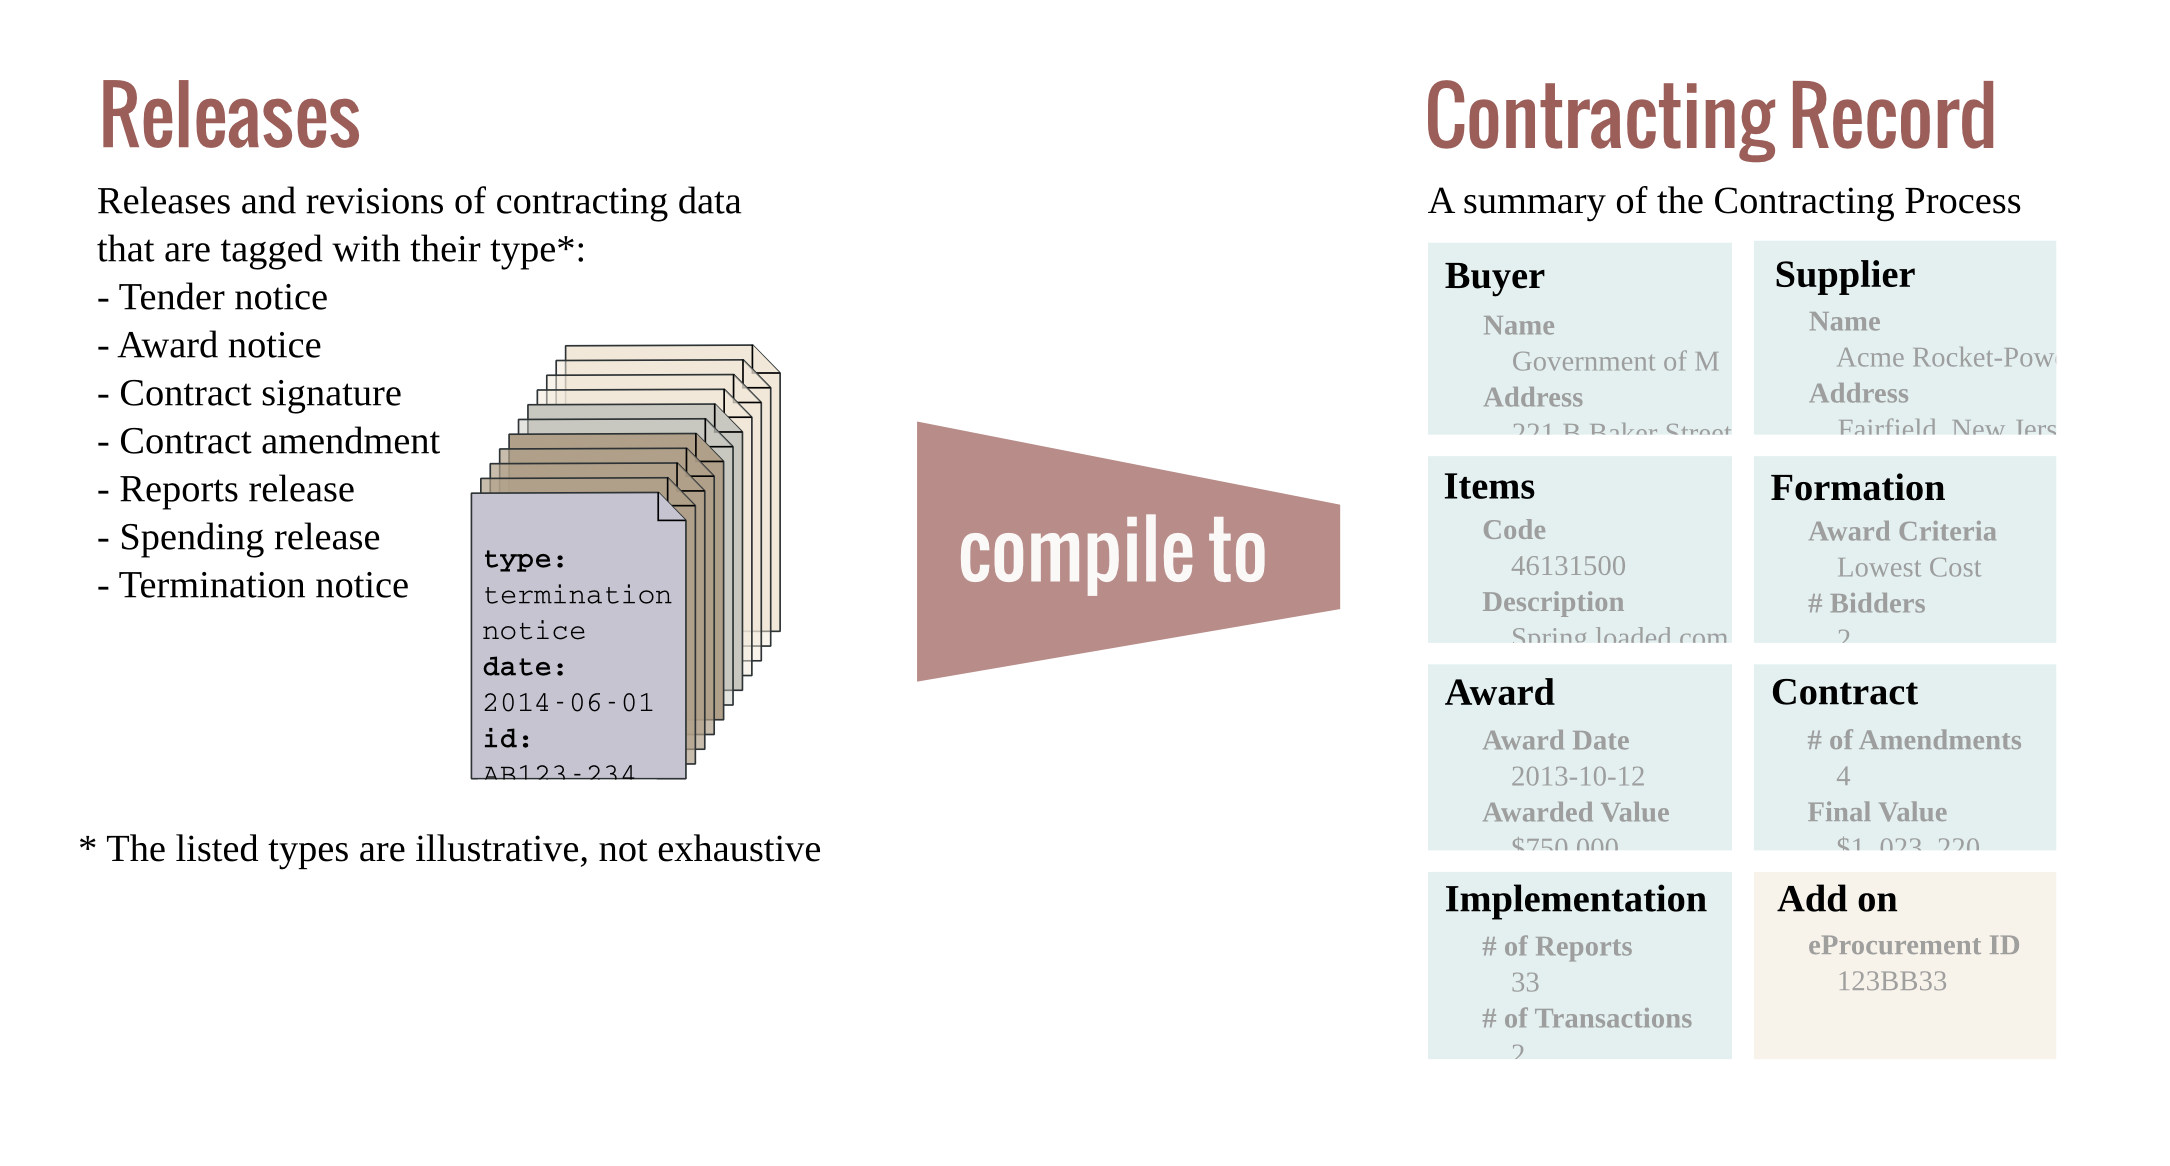
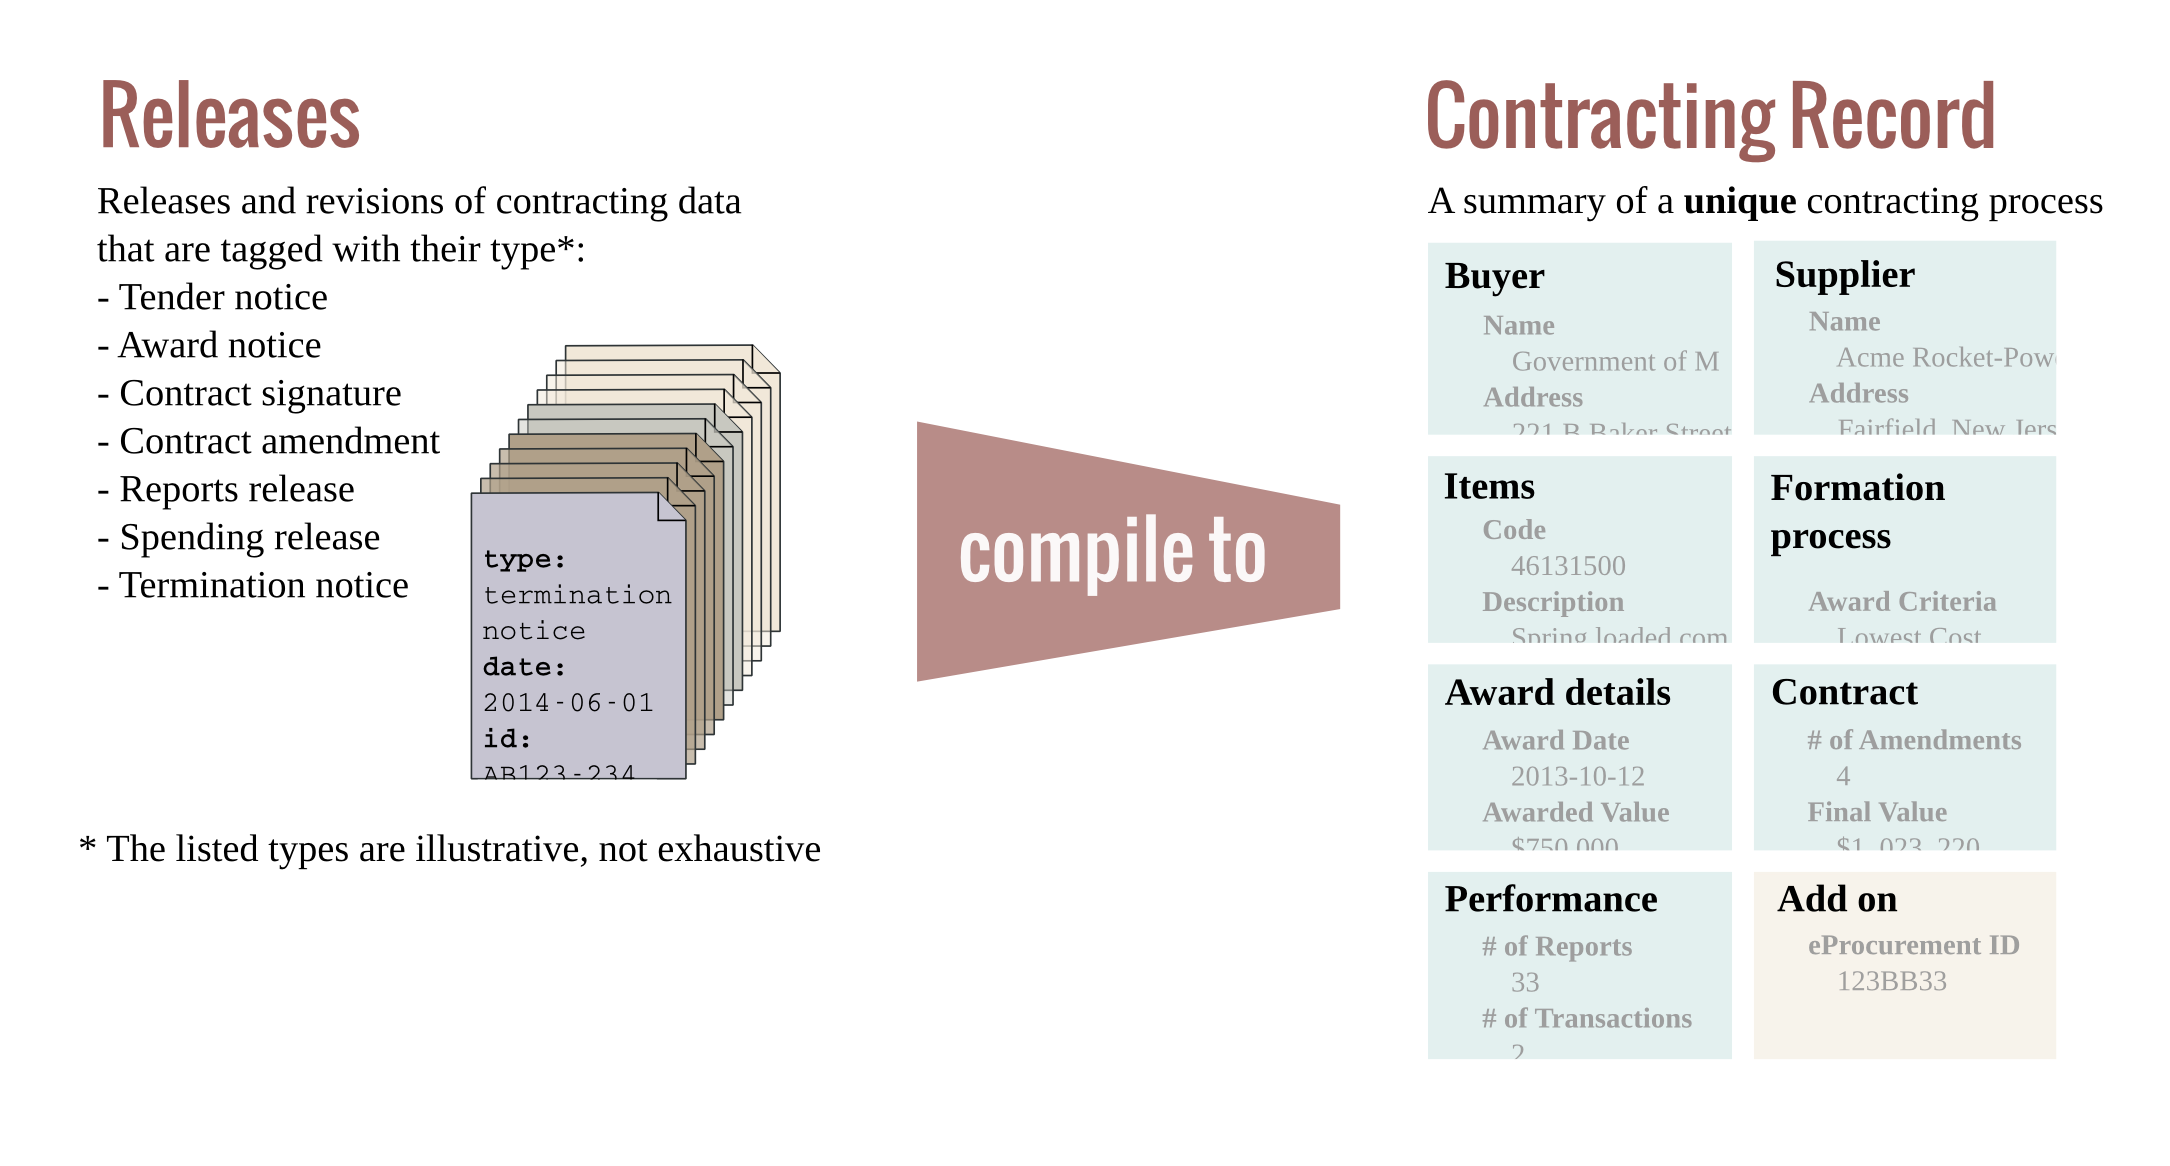
Update releases and record and add note on planning data

diff --git a/standard/standard.md b/standard/standard.md
@@ -61,15 +61,22 @@ The contracting process is the sequence of events related to the lifespan of a c
 
 For descriptions of the phases see the "Definitions" tab at the top.
 
+In this version of the standard, you will not see planning included. 
+Please see "[A note on planning](#a-note-on-planning)" for a full explanation.
+This is because the standard, at this point, has been drafted primarily 
+on the basis of a deep search into the existing data, where we did not find planning data.
+The standard will evolve on the basis of use cases and demand for contracting data also,
+so we welcome detailed use cases regarding planning data to help us build out this area of the standard.
+
 ### Conceptual Model
 We propose an Open Contracting Data Standard consisting of two parts:
 
-- A **contracting record** - a core summary record used to describe key
-  features of the complete Contracting Process. It is updated as 
-  new information becomes available to accurately reflect the state of tender, 
-  award or contract processes. The contracting record should provide an 
-  at-a-glance view of key information used in locating and analysing current, 
-  past or future contracting activities.
+- A **contracting record** - is used to summarize all the key
+  features of the a unique contracting process, bringing together information from 
+  all phases of the contracting process into one record. It is updated as 
+  new information becomes available to accurately reflect the current state of the 
+  contract processes. The contracting record should provide an 
+  at-a-glance view of key information and can then be used to access more detailed information from the releases.
 
 - A set of **contracting releases** - specific releases of information, 
   such as tender notices, award notices, or details of a contract. 
@@ -128,9 +135,9 @@ The Contracting Record above shows the core components of our data model.
         links to the award & contract documents, and termination information. 
         It would also capture details of contract amendments (change of value, deliverables
         alterations, no-cost extensions)
--   Implementation
-    -   In implementation we store details related to the contract performance
-        including details of payments made, evaluation and performance reports.
+-   Performance
+    -   In performance we store details related to the contract implementation
+        including details of payments made, evaluation, audit and performance reports.
 
 <div class="panel panel-success">
     <div class="panel-heading">
@@ -146,6 +153,27 @@ The Contracting Record above shows the core components of our data model.
          </ul>     
      </div>
 </div>
+
+### Defining a unique contracting process
+For the data standard, defining a unique contracting process is critical for getting useful, comparable, clean data. But, there are cases 
+where what the unique process is not obvious. For example, a framework contract has only one tender and award but many contracts associated with that award.
+
+We define a unique contracting process as that with a unique tendering / competitive phase.
+
+**Example 1**
+
+<div class="pull-left"><img alt="Multiple processes" src="https://raw.githubusercontent.com/open-contracting/standard/master/standard/assets/tender_notice_with_multiple_journeys.png"></div>
+
+This Tender notice has a single ID and six line items. However, to secure each item suppliers must enter a seperate bid and the competition is handled seperately for each item leading to 6 contracts. Because the competitive process is unique for each 6 items there are 6 contracting processes here, in spite of the single Tender Notice ID.
+
+<div class="clearfix"></div>
+
+**Example 2**
+<div class="pull-left"><img alt="Single process" src="https://raw.githubusercontent.com/open-contracting/standard/master/standard/assets/one_journey_multiple_contracts.png"></div>
+
+This snippet from a [tender notice](https://buyandsell.gc.ca/procurement-data/tender-notice/PW-14-00635129) offers an unspecified number of contracts for the successful supplier(s). The details note that there is a limit of $25k per contract, anything higher than that must be rebid competitively. All of the $25k or less contracts that are awarded under the award that will result from this tender are part of a single contracting process, because of the single bidding process.
+
+<div class="clearfix"></div>
 
 ### Add on information
 In addition to the core components, there will be cases where
@@ -181,26 +209,12 @@ provide a way to link to these documents. We are considering how to handle docum
 the available documents. As we flesh out the different serializations over July and August this will be defined. Document links will always 
 be available through the release that declared them.
 
-### Defining a unique contracting process
-For the data standard, defining a unique contracting process is critical for getting useful, comparable, clean data. But, there are cases 
-where what the unique process is not obvious. For example, a framework contract has only one tender and award but many contracts associated with that award.
-
-We define a unique contracting process as that with a unique tendering / competitive phase.
-
-**Example 1**
-
-<div class="pull-left"><img alt="Multiple processes" src="https://raw.githubusercontent.com/open-contracting/standard/master/standard/assets/tender_notice_with_multiple_journeys.png"></div>
-
-This Tender notice has a single ID and six line items. However, to secure each item suppliers must enter a seperate bid and the competition is handled seperately for each item leading to 6 contracts. Because the competitive process is unique for each 6 items there are 6 contracting processes here, in spite of the single Tender Notice ID.
-
-<div class="clearfix"></div>
-
-**Example 2**
-<div class="pull-left"><img alt="Single process" src="https://raw.githubusercontent.com/open-contracting/standard/master/standard/assets/one_journey_multiple_contracts.png"></div>
-
-This snippet from a [tender notice](https://buyandsell.gc.ca/procurement-data/tender-notice/PW-14-00635129) offers an unspecified number of contracts for the successful supplier(s). The details note that there is a limit of $25k per contract, anything higher than that must be rebid competitively. All of the $25k or less contracts that are awarded under the award that will result from this tender are part of a single contracting process, because of the single bidding process.
-
-<div class="clearfix"></div>
+### A note on planning
+In this version of the standard, you will not see planning included. 
+This is because the standard, at this point, has been drafted primarily 
+on the basis of a deep search into the existing data, where we did not find planning data.
+The standard will evolve on the basis of use cases and demand for contracting data also,
+so we welcome detailed use cases regarding planning data to help us build out this area of the standard.
 
 ##The contracting record 
 The contracting record is a master document that collects together a summary of key information about a contracting process. 
